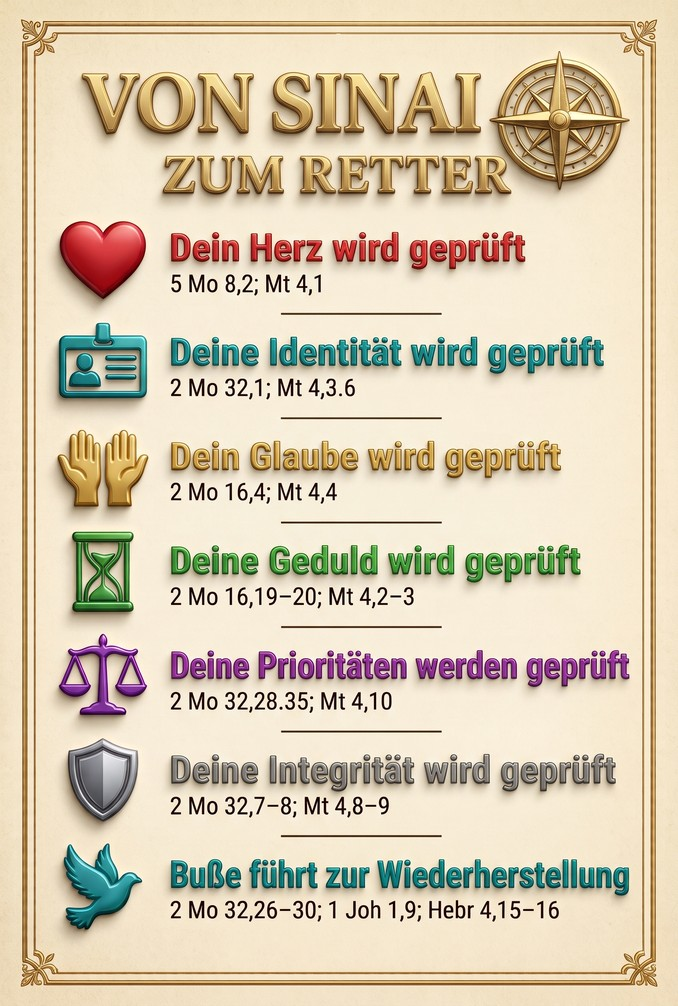
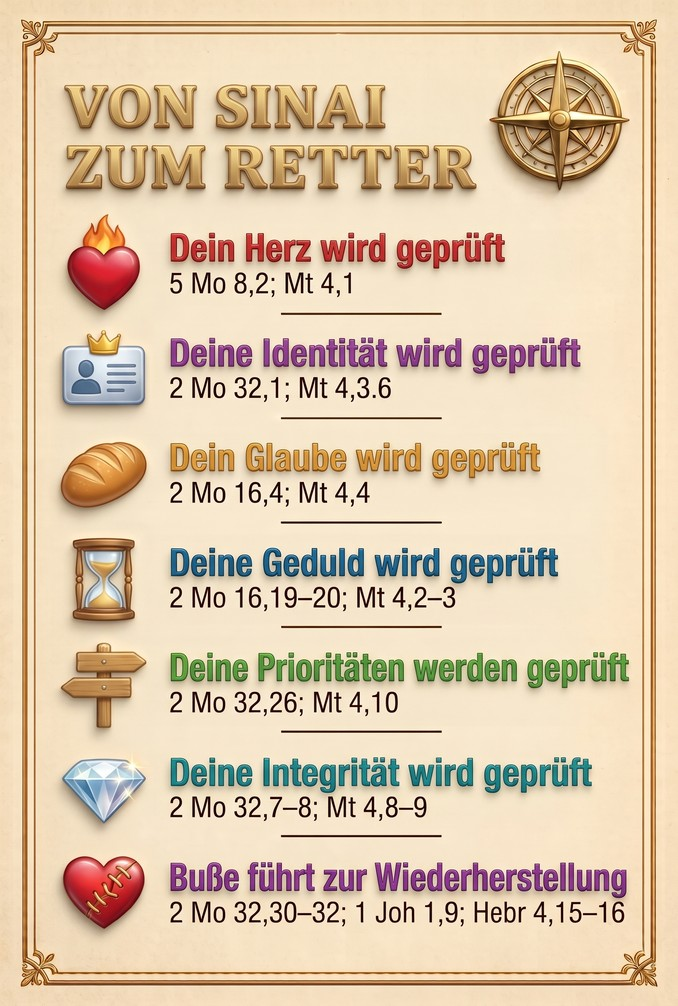
Karte 47: neue Rückseite (Gemini), Referenzen geprüft (2 Mo 32,26; 32,30–32)
Claude-Session: https://claude.ai/code/session_0124h5yDy6USGZ8DS8E24Fju

diff --git a/card-text.js b/card-text.js
@@ -48,7 +48,7 @@ window.COR_DEO_TEXT = {
  "44": "DER WILLE DES VATERS IST: | UNTERWIRF DICH GOTTES SOUVERÄNITÄT | Jak 4,15 | PHARAO | MOSE | 2 Mo 5,2; 7–12 | 2 Mo 3,4–14 | WIDERSPIEGELT MEINE HALTUNG GEGENÜBER GOTTES FÜHRUNG EHER DEN PHARAO ODER MOSE? | WIDERSETZLICHKEIT ODER GEHORSAM | Unterwirf dich Gottes Autorität | 2 Mo 3–4; Hi 42,2; Lk 1,38 | Weise hochmütigen Widerstand zurück | Dan 4,31–37; Apg 9,1–19; 2 Sam 12,13 | Vertraue Gottes Ratschluss | 1 Mo 50,20; Est 4,14–16; Dan 6 | Finde Frieden in der Hingabe | 1 Sam 1,10–18; Lk 22,42; Joh 21,18–19 | Antworte dem Ruf Gottes in Demut | 1 Sam 3,10; Jes 6,8; Lk 1,38 | Ergreife deine Berufung | Ri 6,14–16; Jer 1,6–8; 1 Tim 4,12 | Gott herrscht, du bist verantwortlich | Spr 16,9; Phil 2,12–13",
  "45": "DER WILLE DES VATERS IST: DEIN WILLE GESCHEHE, Mt 6,10 | PETRUS IN GETHSEMANE | JESUS IN GETHSEMANE | Mt 26,51–54 | Mt 26,39.42 | unterwerfe ich mich oder widersetze ich mich dem willen gottes? | Sich dem Willen Gottes hingeben | Sich Gottes Willen unterwerfen | 1 Mo 22,1–3; Mt 26,39 | Gott im Leiden vertrauen | 1 Mo 22,8; Mt 26,39 | Leiden führt zu Gottes Willen | 1 Mo 22,6–10; Mt 26,42 | Eigene Wünsche Gottes Plan anpassen | 1 Mo 22,2.10; Mt 26,39.42 | Hingabe statt eigener Anstrengung | 1 Mo 22,9–12; Mt 26,52–54 | Gottes Kraft und Zeit vertrauen | 1 Mo 22,8.13–14; Mt 26,53 | Der Versuchung widerstehen | 1 Mo 22,3.12; Mt 26,41",
  "46": "DER WILLE DES VATERS IST: ER FORMT MICH, Jes 64,7 | KÖNIG SAUL | JOSEF | 1 Sam 13,8–14 | 1 Mo 37–50 | lasse ich gott den töpfer sein oder übernehme ich die kontrolle? | Geformt für Seine Herrlichkeit | Gott als den Töpfer annehmen | Jes 64,7; Jer 18,6; Röm 9,21 | Gottes Güte vertrauen | 1 Mo 45,7–8; Hi 42,2; Röm 8,28 | Mit Gottes Souveränität mitwirken | 1 Mo 50,20; Spr 16,9; Phil 2,12–13 | Sich mit Gottes Absichten ausrichten | 1 Mo 45,7–8; 1 Sam 13,13–14; Eph 2,10 | Durch Prüfungen wachsen | Ps 105,19; 1 Mo 39,20–23; Röm 5,3–4 | Gehorsam an erste Stelle setzen | 1 Sam 15,22; Joh 14,15; Jak 1,22 | Vergebung im Herzen tragen | 1 Mo 50,15–21; 1 Mo 45,4–5; Eph 4,32",
- "47": "DER WILLE DES VATERS IST: SICH GOTT HINGEBEN, Jes 64,7 | ISRAEL IN DER WÜSTE | JESUS IN DER WÜSTE | 2 Mo 16,1–32 | Mt 4,1–11 | vertraue ich gott oder gehe ich meinen eigenen weg? | VON SINAI ZUM RETTER | Dein Herz wird geprüft | 5 Mo 8,2; Mt 4,1 | Deine Identität wird geprüft | 2 Mo 32,1; Mt 4,3.6 | Dein Glaube wird geprüft | 2 Mo 16,4; Mt 4,4 | Deine Geduld wird geprüft | 2 Mo 16,19–20; Mt 4,2–3 | Deine Prioritäten werden geprüft | 2 Mo 32,28.35; Mt 4,10 | Deine Integrität wird geprüft | 2 Mo 32,7–8; Mt 4,8–9 | Buße führt zur Wiederherstellung | 2 Mo 32,26–30; 1 Joh 1,9; Hebr 4,15–16",
+ "47": "DER WILLE DES VATERS IST: SICH GOTT HINGEBEN, Jes 64,7 | ISRAEL IN DER WÜSTE | JESUS IN DER WÜSTE | 2 Mo 16,1–32 | Mt 4,1–11 | vertraue ich gott oder gehe ich meinen eigenen weg? | Von Sinai zum Retter | Dein Herz wird geprüft | 5 Mo 8,2; Mt 4,1 | Deine Identität wird geprüft | 2 Mo 32,1; Mt 4,3.6 | Dein Glaube wird geprüft | 2 Mo 16,4; Mt 4,4 | Deine Geduld wird geprüft | 2 Mo 16,19–20; Mt 4,2–3 | Deine Prioritäten werden geprüft | 2 Mo 32,26; Mt 4,10 | Deine Integrität wird geprüft | 2 Mo 32,7–8; Mt 4,8–9 | Buße führt zur Wiederherstellung | 2 Mo 32,30–32; 1 Joh 1,9; Hebr 4,15–16",
  "48": "DER WILLE DES VATERS IST: SICH GOTT HINGEBEN, Jes 64,7 | ISRAEL AM SINAI | JESUS AUF DEM BERG | 2 Mo 32,1–8 | Mt 4,8–10 | vertraue ich gott oder gehe ich meinen eigenen weg? | SIEG IN DER WÜSTE | Mit Liebe zu Gott siegen | 5 Mo 6,5; 1 Sam 13,14; Apg 13,22; Ps 51,12 | Mit Identität in Christus siegen | Gal 2,20; 1 Pt 2,9; Joh 1,12; Hebr 11,24–26 | Mit Vertrauen auf Gott siegen | Hebr 11,6; Röm 4,20–21; 1 Mo 22,1–18; Mt 15,21–28 | Mit Geduld siegen | Jak 1,2–4; Ps 37,7; 1 Mo 41,41–43; Jak 5,10–11 | Mit Gott an erster Stelle siegen | Mt 6,33; Kol 3,2; Lk 10,38–42; Neh 6,2–3 | Mit Treue siegen | Ps 15,1–2; Spr 10,9; 1 Mo 39,6–12; 1 Sam 12,3 | Mit Umkehr zu Gott siegen | 1 Joh 1,9; Apg 3,19; Ps 32,5; Joh 21,15–19",
  "49": "Der Wille des Vaters ist; Gottes Zeitplan vertrauen, Eph. 1,11 | Saul | David | 1.Samuel 13.8-14 | 1.Samuel 24 | Wenn Gott sich verspätet, handle ich wie Saul oder warte ich wie David? | RUHEN IN GOTTES ZEIT | Gottes Zeit ist stets vollkommen | 1Mo 21,1–2, 1Mo 41,39–46, Gal 4,4; Lk 2,6–7 | Vertraue seinem Sinn in Verzögerungen | 1Mo 6–7, 1Sam 16,13, 1Sam 1,9–20 | Warte im Glauben, nicht im Schauen Lk 2,25–32; Jos 2,8–14; Hebr 11,31 | Warten reift deinen Charakter | Hi 1–42; Jak 5,11, 1Mo 39–45 | Warte aktiv: Bete & gehorche | Dan 6,11–24, Apg 10,1–4 | Ungeduld bringt Verlust | 4Mo 14,1–23, 1Sam 13,8–14 | Hoffe auf Gottes letzten Plan | Hebr 11,10.16, Hebr 10,34–36",
  "50": "DER WILLE DES VATERS IST: HOFFNUNG | RÖM. 15,13 | KÖNIG SAUL | ABRAHAM | 1. SAMUEL 28 | RÖMER 4 | IN DER KRISE: WÄHLE ICH GLAUBEN WIE ABRAHAM ODER VERZWEIFLUNG WIE SAUL? | Erforsche mich, o Gott ... | Vermeide Sauls zerstörerisches Verhalten | Ungeduld – brachte ein unerlaubtes Opfer dar (1. Samuel 15,22–23) | Gottlose Beratung – suchte eine Totenbeschwörerin auf (1. Samuel 28 | Geistliche Blindheit – beschuldigte andere, bereute nicht (1. Samuel 15,24) | Tragisches Ende – nahm sich das Leben. ohne zu Gott umzukehren (1. Samuel 31,3) | „Hoffnung findet man nicht in Kontrolle, sondern in Hingabe.“ | Lebe Abrahams aufbauendes Verhalten | Glaube – vertraute auf Gottes Zeitplan | Gehorsam – folgte Gottes Ruf (1. Mose 12,1-4) | Gott suchen – baute Altäre, betete (1. Mose 12,4 | Demut – trat für Sodom ein (1. Mose 18,22–33) | Hoffnung – glaubte an Gottes Versorgung | Psalm 139,24",

diff --git a/index.html b/index.html
@@ -2045,7 +2045,7 @@ window.COR_DEO_NOTES = {
       ["Deine Geduld wird geprüft", "Manche sammelten Manna für den nächsten Tag und es verdarb. Jesus hungerte vierzig Tage."],
       ["Deine Prioritäten werden geprüft", "Wer gehört zum Herrn? Du sollst den Herrn, deinen Gott, anbeten."],
       ["Deine Integrität wird geprüft", "Israel sagte sich los von Gott. Jesus schlug das Reich der Welt aus."],
-      ["Buße führt zur Wiederherstellung", "Wer zum Herrn gehört, kehrt um. Jesus ist unser Hoherpriester, der mit unserer Schwachheit mitfühlt."]
+      ["Buße führt zur Wiederherstellung", "Mose trat für das Volk ein und bat um Vergebung. Wer bekennt, dem wird vergeben. Jesus ist unser Hoherpriester, der mit unserer Schwachheit mitfühlt."]
     ]}],
     question: "Vertraue ich Gott, oder gehe ich meinen eigenen Weg?"
   },

diff --git a/sw.js b/sw.js
@@ -6,8 +6,8 @@
      sodass ein Update der Seite (VERSION erhöhen) die ~7,6 MB nicht erneut herunterlädt.
    - Fremde Adressen werden nicht angefasst (die Schriften liegen im Ordner fonts/ und werden wie Bilder aus dem Cache bedient).
    Bei Änderungen an diesem Skript: VERSION erhöhen. Bei neuen/geänderten Kartenbildern: IMG_CACHE erhöhen. */
-var VERSION = "cordeo-v98";
-var IMG_CACHE = "cordeo-img-v81";
+var VERSION = "cordeo-v99";
+var IMG_CACHE = "cordeo-img-v82";
 var CARD_COUNT = 120;                       // Anzahl der Bilddateien "COR DEO-Karten-001.jpg" … "-120.jpg"
 var PRECACHE_PARALLEL = 4;
 var SHELL = ["./", "index.html", "manifest.json", "pwa.js", "share.js", "legal.js", "card-text.js", "fonts/fonts.css", "share-qr.svg", "share-qr.png",
